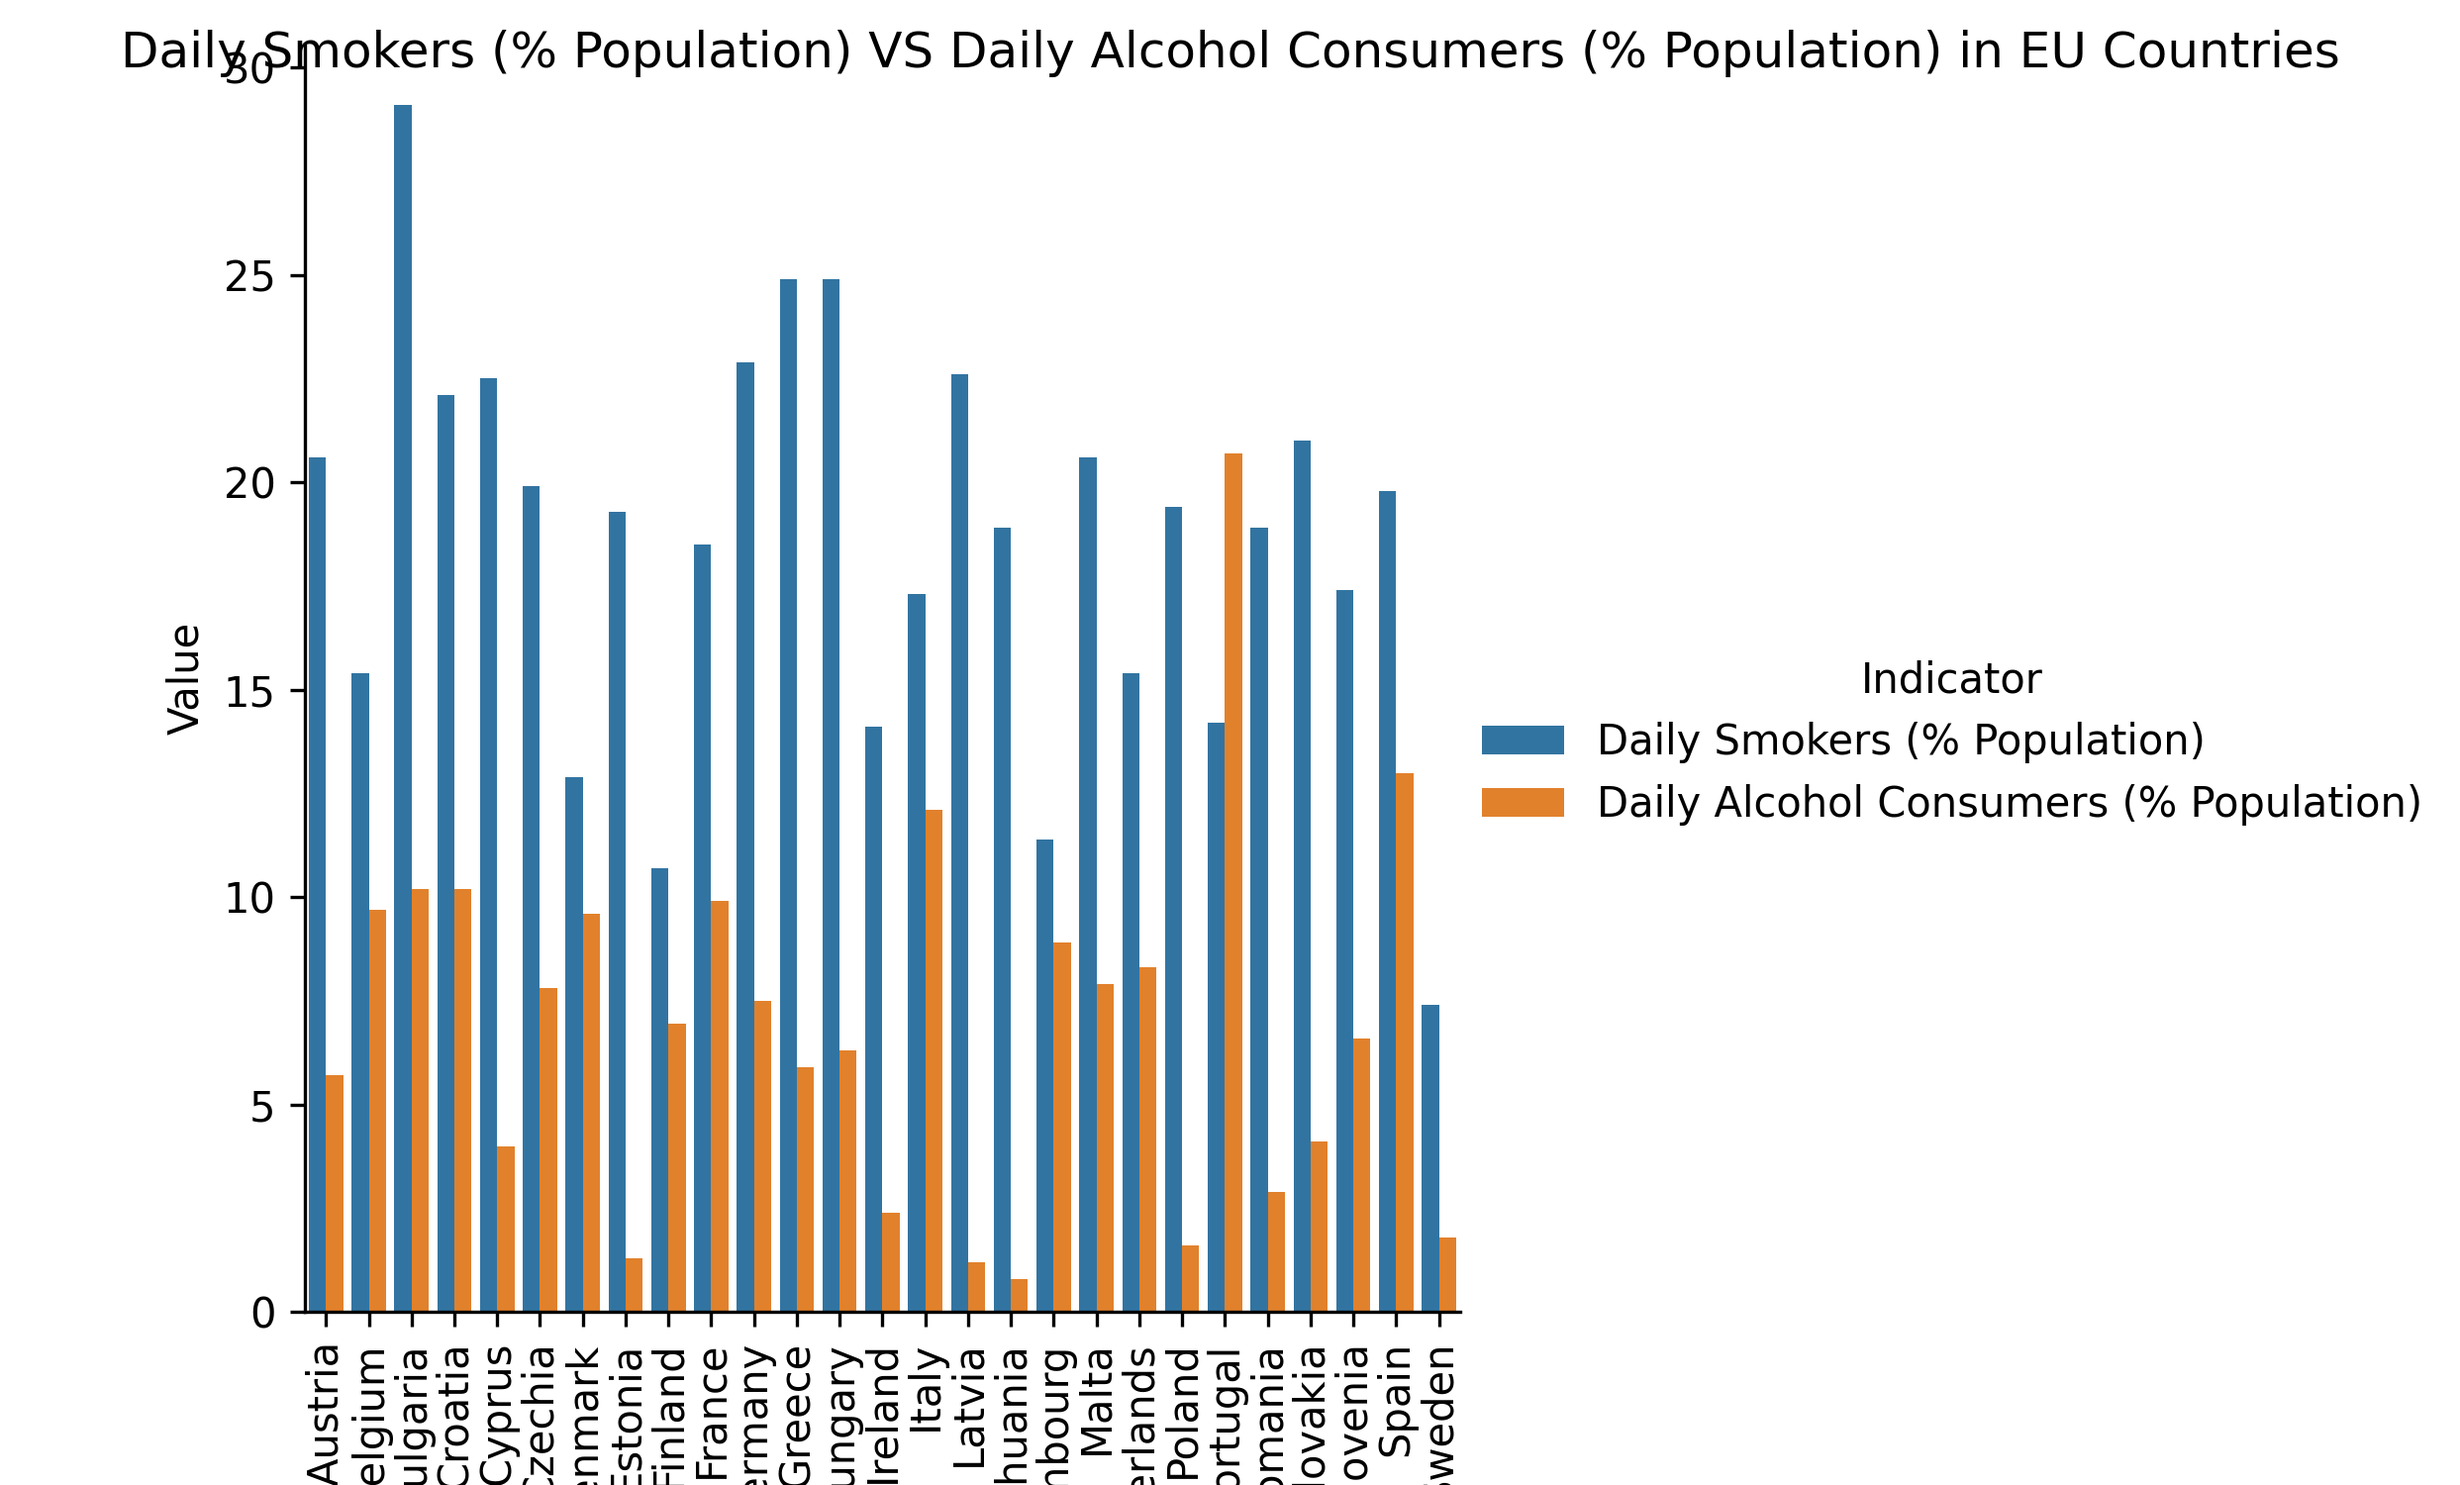
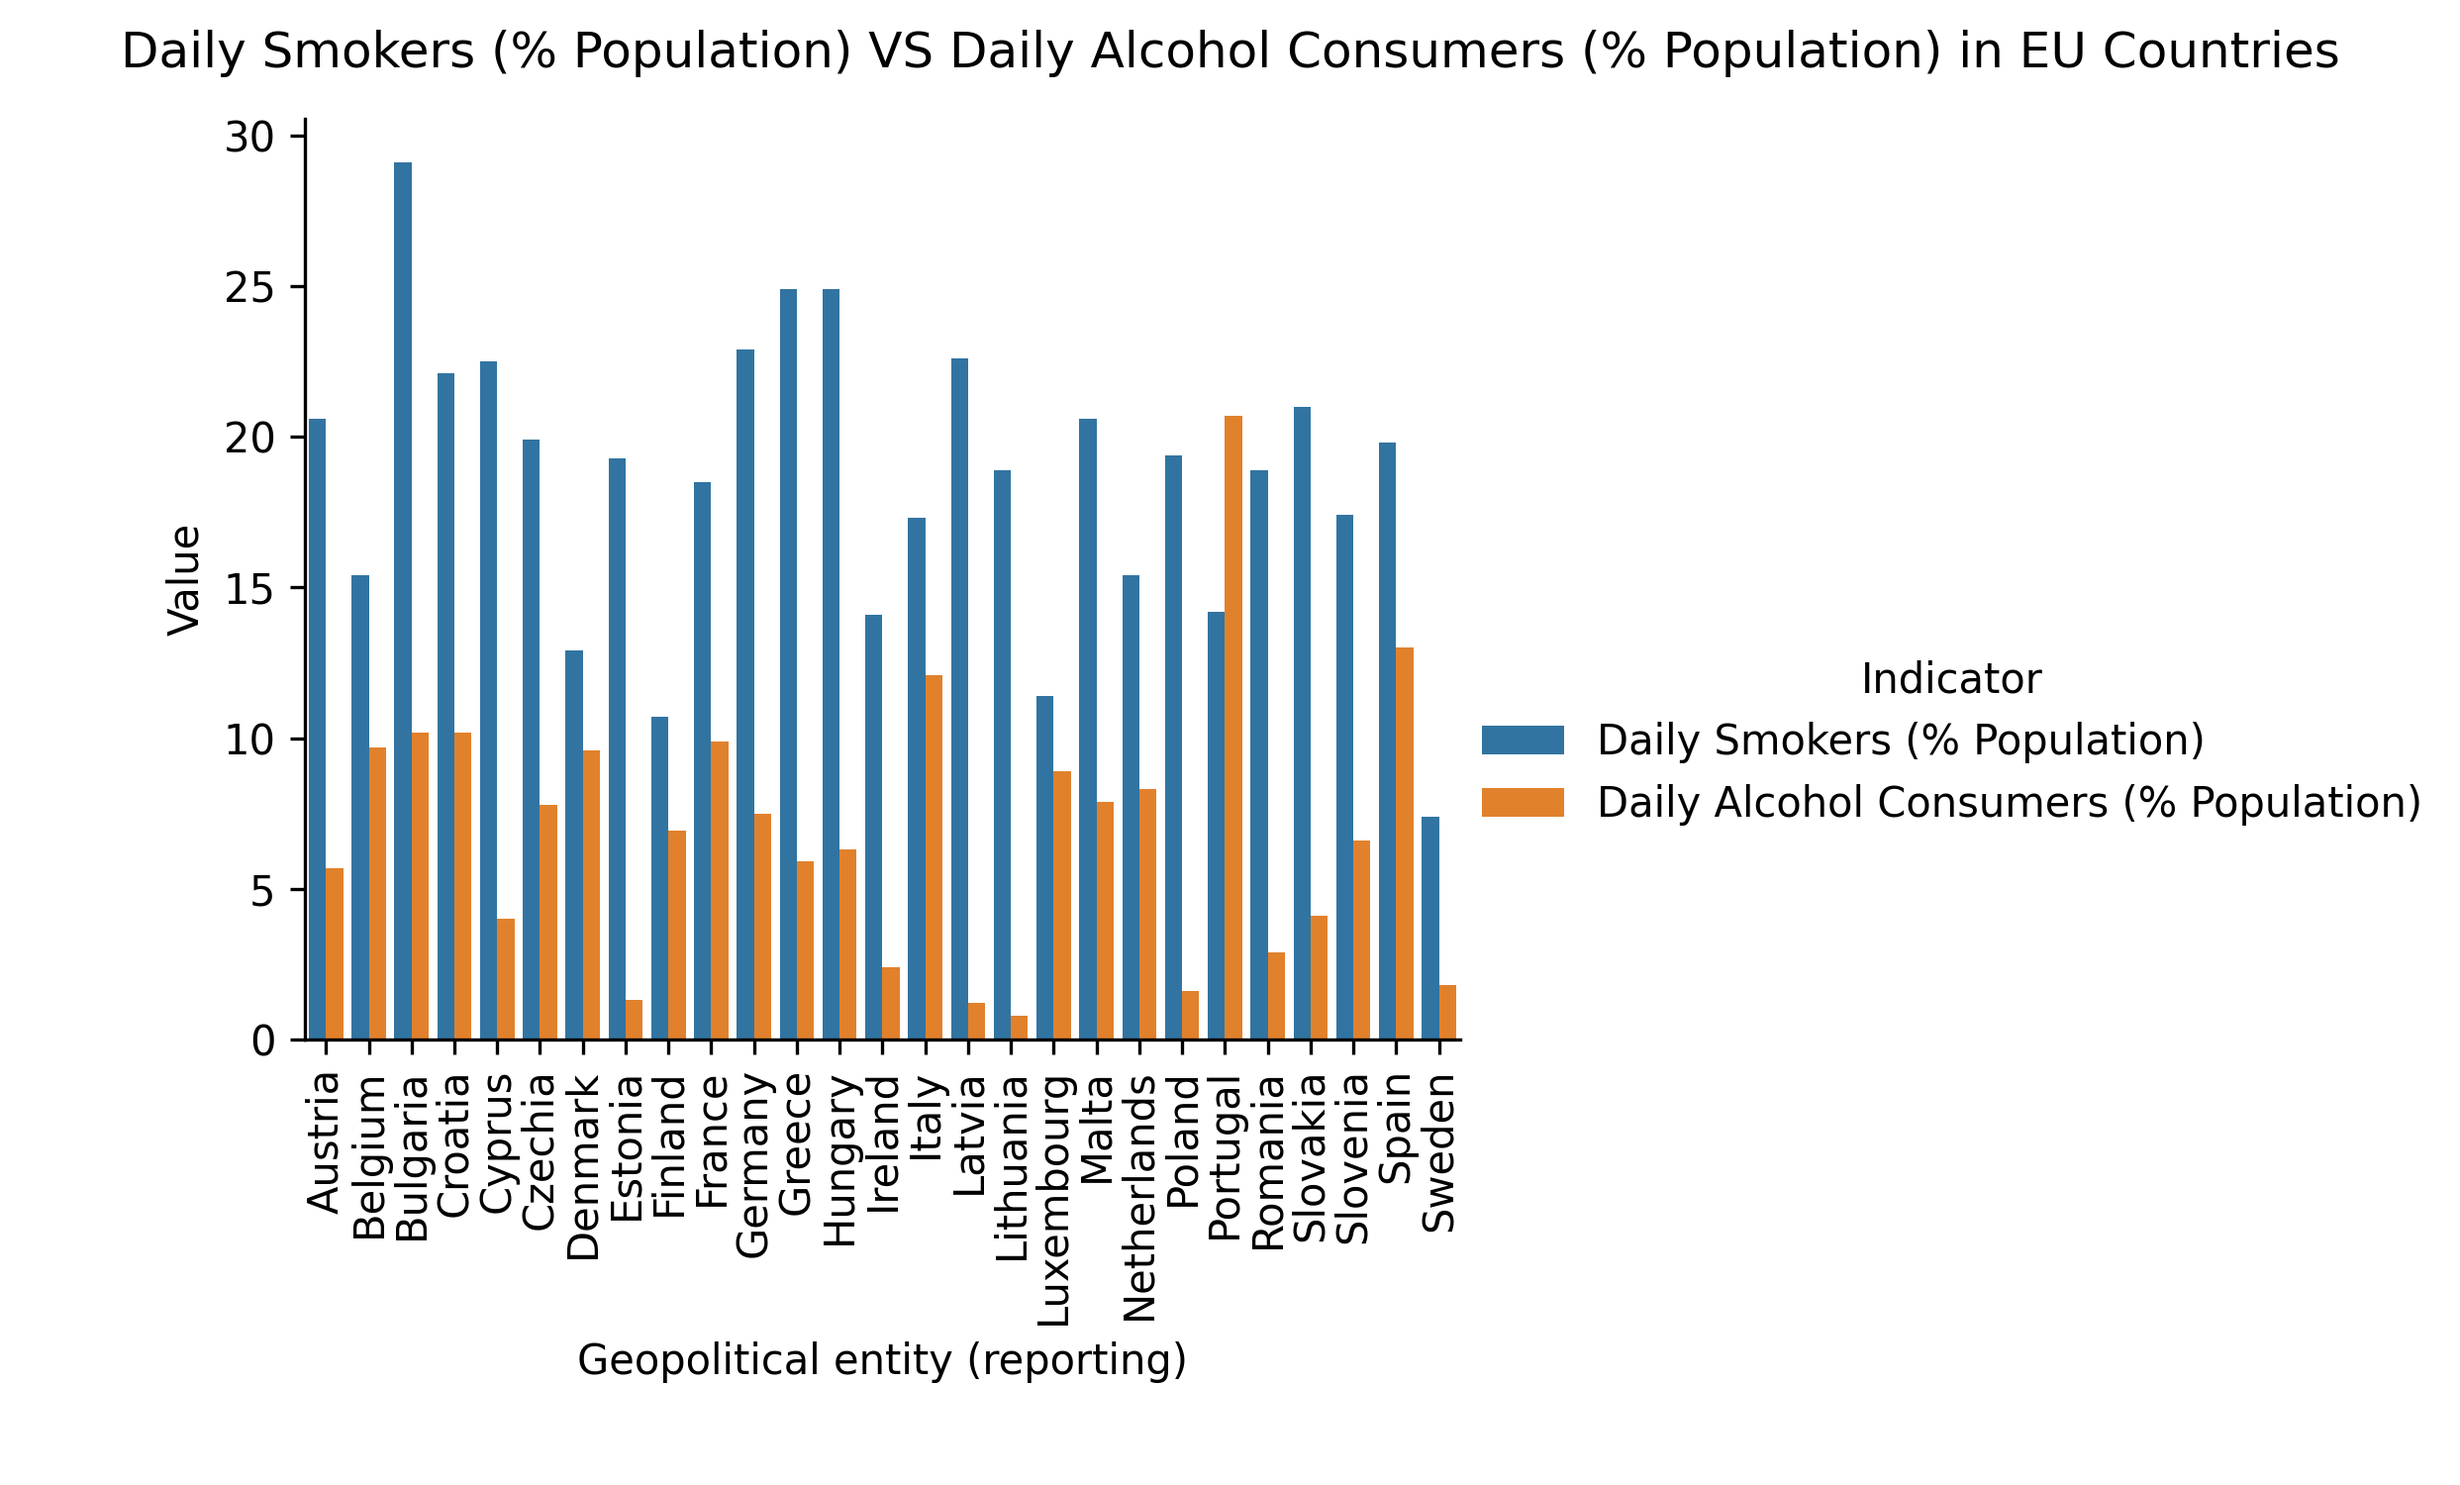
Minor fixes to some plots

diff --git a/analysis.py b/analysis.py
@@ -10,9 +10,11 @@ dataset = create_dataset()
 #GRAPHICAL PROJECTION OF THE DATA
 
 #barchart of life expectancy
-g = sns.catplot(x = 'Geopolitical entity (reporting)', y = 'Life Expectancy', data = dataset, kind ='bar')
+g = sns.catplot(x = 'Geopolitical entity (reporting)', y = 'Life Expectancy', data = dataset, kind ='bar', height = 8, aspect=1.5)
 g.set_xticklabels(rotation = 90)
 g.set_axis_labels('Country', 'Life expectancy (years)')
+
+g.fig.subplots_adjust(bottom=0.30, top=0.92)
 g.fig.suptitle('Life expectancy by country (2023)')
 
 plt.savefig('plots/life_expectancy.png', dpi = 300)
@@ -31,6 +33,8 @@ df_long = dataset.melt(
 
 g = sns.catplot(x = 'Geopolitical entity (reporting)', y = 'Value', hue = 'Indicator', data = df_long, kind = 'bar')
 g.set_xticklabels(rotation = 90)
+
+g.fig.subplots_adjust(bottom=0.30, top=0.92)
 g.fig.suptitle('Daily Smokers (% Population) VS Daily Alcohol Consumers (% Population) in EU Countries')
 
 plt.savefig('plots/smokers_vs_drinkers', dpi=300)
